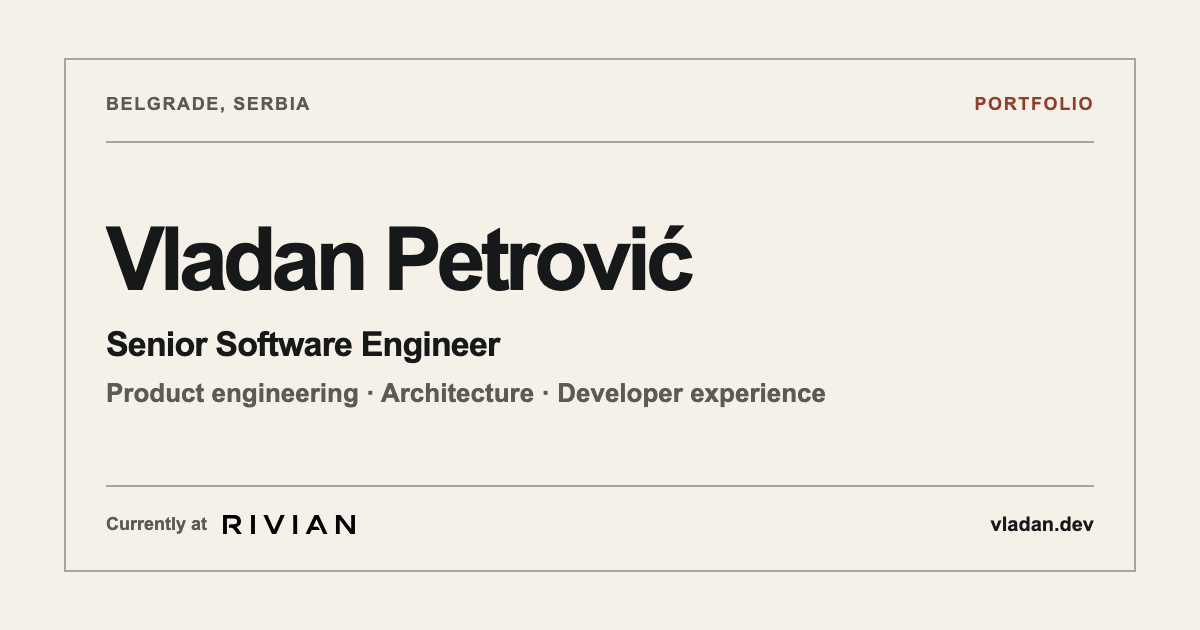
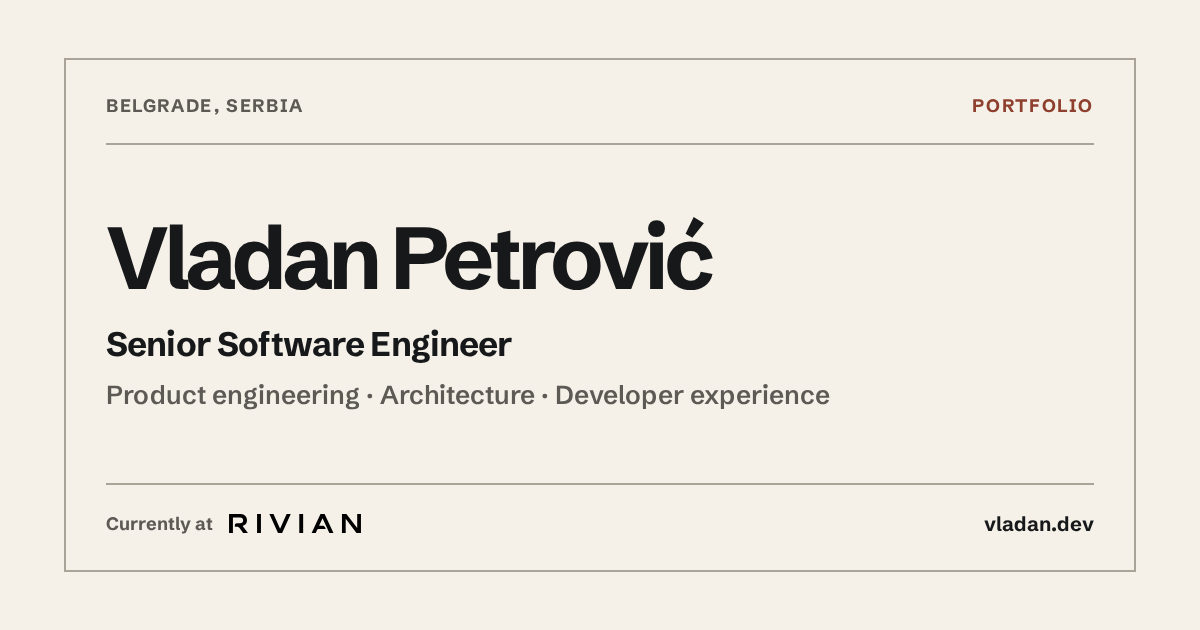
feat: self host the schibsted grotesk typeface
Serve a 37 KB variable subset of Schibsted Grotesk, preloaded with
font-display swap and an Arial fallback scaled to its metrics, so text
looks the same on every device. The social image uses it too.

Claude-Session: https://claude.ai/code/session_01Nj3ABfGkd4qpSdt2232EJE

diff --git a/e2e/site-integrity.spec.ts b/e2e/site-integrity.spec.ts
@@ -62,7 +62,7 @@ test.describe("generated site integrity", () => {
         if (image.src) values.add(image.src);
       }
       for (const link of document.querySelectorAll<HTMLLinkElement>(
-        'link[rel="icon"], link[rel="apple-touch-icon"], link[rel="manifest"]',
+        'link[rel="icon"], link[rel="apple-touch-icon"], link[rel="manifest"], link[rel="preload"]',
       )) {
         values.add(link.href);
       }
@@ -71,7 +71,7 @@ test.describe("generated site integrity", () => {
       );
     });
 
-    expect(references.length).toBeGreaterThanOrEqual(8);
+    expect(references.length).toBeGreaterThanOrEqual(9);
     await Promise.all(
       references.map(async (reference) => {
         const response = await request.get(reference);
@@ -118,6 +118,28 @@ test.describe("generated site integrity", () => {
       return ids.filter((id) => id === url.hash.slice(1)).length !== 1;
     });
     expect(brokenLinks).toEqual([]);
+  });
+
+  test("renders text with the self hosted typeface", async ({
+    page,
+    request,
+  }) => {
+    await page.goto("/");
+
+    // The CSS minifier lowercases family names, and matching ignores case.
+    const loadedFamilies = await page.evaluate(async () => {
+      await document.fonts.ready;
+      return [...document.fonts]
+        .filter((font) => font.status === "loaded")
+        .map((font) => font.family.replaceAll('"', "").toLowerCase());
+    });
+    expect(loadedFamilies).toContain("schibsted grotesk");
+    expect(
+      await page
+        .locator("h1")
+        .evaluate((element) => getComputedStyle(element).fontFamily),
+    ).toMatch(/^"?Schibsted Grotesk"?,/);
+    expect((await request.get("/fonts/OFL.txt")).status()).toBe(200);
   });
 
   test("homepage loads without browser or network errors", async ({ page }) => {

diff --git a/assets/css/style.css b/assets/css/style.css
@@ -1,3 +1,21 @@
+@font-face {
+  font-family: "Schibsted Grotesk";
+  font-style: normal;
+  font-weight: 400 700;
+  font-display: swap;
+  src: url("/fonts/schibsted-grotesk.woff2") format("woff2");
+}
+
+/* Arial scaled to Schibsted Grotesk metrics limits layout shift on swap. */
+@font-face {
+  font-family: "Schibsted Grotesk Fallback";
+  src: local("Arial");
+  size-adjust: 102%;
+  ascent-override: 95.74%;
+  descent-override: 25.28%;
+  line-gap-override: 0%;
+}
+
 :root {
   color-scheme: light;
 
@@ -9,7 +27,8 @@
   --color-focus: #2458a6;
 
   --font-sans:
-    ui-sans-serif, -apple-system, BlinkMacSystemFont, "Segoe UI", sans-serif;
+    "Schibsted Grotesk", "Schibsted Grotesk Fallback", ui-sans-serif,
+    -apple-system, BlinkMacSystemFont, "Segoe UI", sans-serif;
   --font-mono:
     ui-monospace, "SFMono-Regular", "Cascadia Code", "Roboto Mono", monospace;
 

diff --git a/scripts/social-image.html b/scripts/social-image.html
@@ -5,6 +5,12 @@
     <meta name="viewport" content="width=device-width, initial-scale=1" />
     <title>Vladan Petrovic | Social image</title>
     <style>
+      @font-face {
+        font-family: "Schibsted Grotesk";
+        font-weight: 400 700;
+        src: url("../static/fonts/schibsted-grotesk.woff2") format("woff2");
+      }
+
       :root {
         color-scheme: light;
         --accent: #8e3f2d;
@@ -30,7 +36,7 @@
         padding: 58px 64px;
         color: var(--text);
         background: var(--background);
-        font-family: Arial, Helvetica, sans-serif;
+        font-family: "Schibsted Grotesk", Arial, sans-serif;
       }
 
       main {

diff --git a/layouts/baseof.html b/layouts/baseof.html
@@ -16,6 +16,13 @@
     <meta charset="utf-8" />
     <meta name="viewport" content="width=device-width, initial-scale=1" />
     <title>{{ $pageTitle }}</title>
+    <link
+      rel="preload"
+      href="{{ "fonts/schibsted-grotesk.woff2" | relURL }}"
+      as="font"
+      type="font/woff2"
+      crossorigin
+    />
 
     {{- $cssPaths := slice "css/style.css" "css/header.css" "css/footer.css" }}
     {{- if $is404 }}

diff --git a/README.md b/README.md
@@ -60,7 +60,8 @@ Install them by running `pnpm install` or `pnpm prepare`.
 - `content/`: visible Markdown content
 - `layouts/`: base template, page layouts, partials, and `robots.txt`
 - `assets/`: CSS and fingerprinted brand and social images processed by Hugo
-- `static/`: the custom domain, web manifest, install icons, and hosted CV
+- `static/`: the custom domain, web manifest, install icons, typeface, and
+  hosted CV
 - `e2e/`: Playwright and Axe validation of generated pages and endpoints
 - `scripts/`: Lighthouse validation and source templates for generated assets
 - `.github/workflows/`: validation, deployment, production auditing, and
@@ -75,6 +76,29 @@ the public configuration, homepage content, CV source, social image source, and
 web manifest as applicable, then regenerate the affected assets. When the CV
 changes, also update `cvLastmod` in `params.toml` so its sitemap timestamp stays
 accurate.
+
+## Typeface
+
+The site and social image use
+[Schibsted Grotesk](https://github.com/schibsted/schibsted-grotesk), served
+from `static/fonts/` under the SIL Open Font License in `static/fonts/OFL.txt`.
+The file is the variable font from Google Fonts, limited to weights 400 to 700,
+the Latin 1 range, Serbian Latin letters, common punctuation, and arrows with
+[fontTools](https://github.com/fonttools/fonttools) (`pip install fonttools
+brotli`):
+
+```bash
+fonttools varLib.instancer "SchibstedGrotesk[wght].ttf" wght=400:700 \
+  -o schibsted-grotesk.ttf
+pyftsubset schibsted-grotesk.ttf --flavor=woff2 \
+  --output-file=static/fonts/schibsted-grotesk.woff2 \
+  --layout-features=calt,ccmp,kern,liga,locl,mark,mkmk \
+  --unicodes="U+0000-00FF,U+0106-0107,U+010C-010D,U+0110-0111,U+0131,U+0152-0153,U+0160-0161,U+017D-017E,U+02C6,U+02DA,U+02DC,U+2000-206F,U+20AC,U+2122,U+2190-2199,U+2212,U+FEFF,U+FFFD"
+```
+
+Characters outside the subset fall back to the system font. The fallback face
+in `assets/css/style.css` scales Arial to the font's metrics to limit layout
+shift while it loads; recalculate it if the font changes.
 
 ## CI and deployment
 
